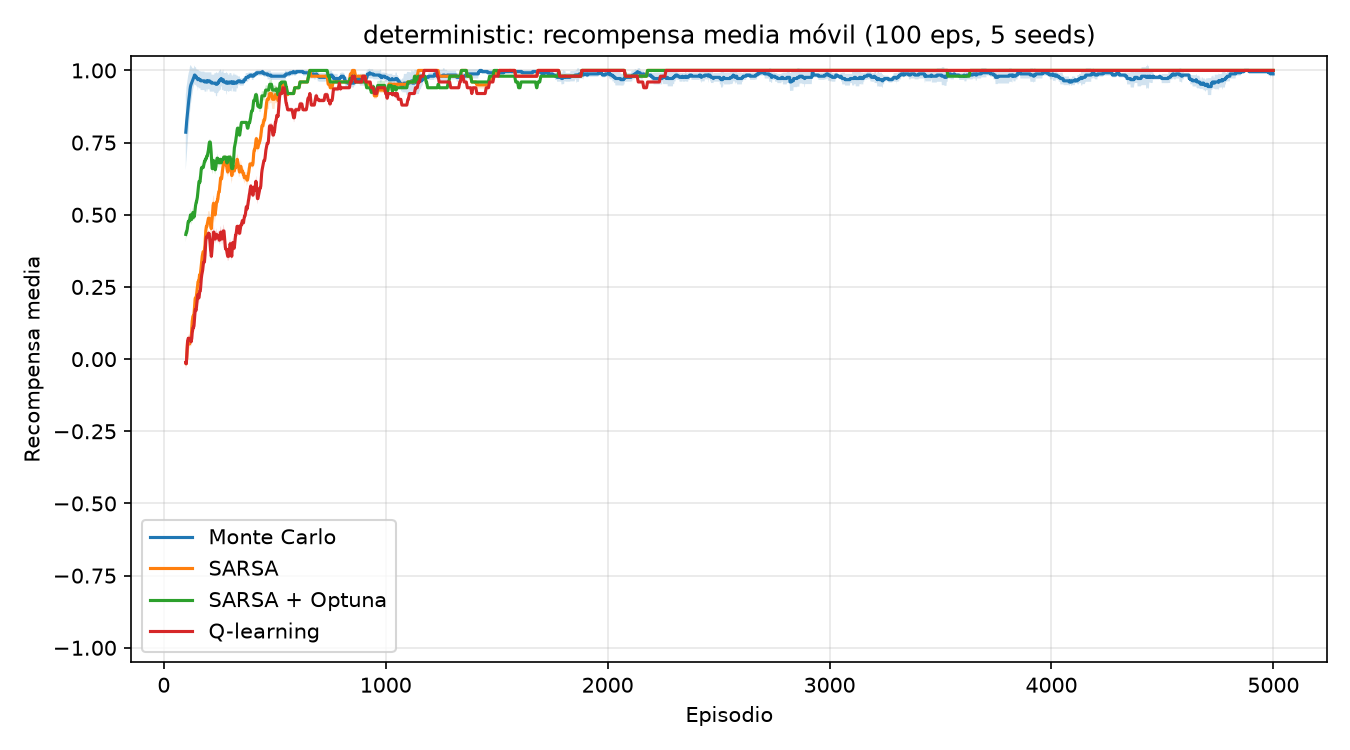
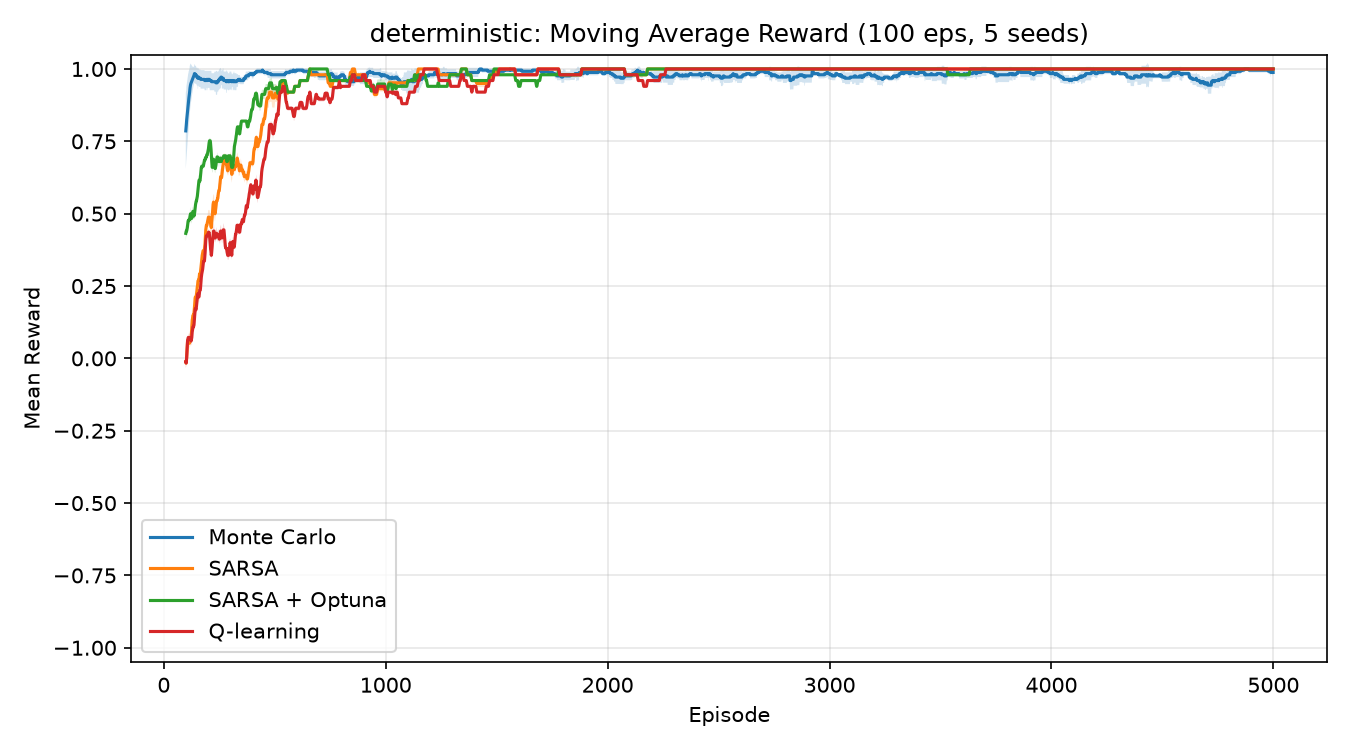
hope_last_changes

diff --git a/run_experiments.py b/run_experiments.py
@@ -37,8 +37,8 @@ def main():
 
     if not params_path.exists():
         raise FileNotFoundError(
-            "No se encuentra best_sarsa_params.json. "
-            "Ejecuta primero optimizacion.py."
+            "Can't find best_sarsa_params.json. "
+            "First execute optimizacion.py."
         )
 
     with params_path.open("r", encoding="utf-8") as f:
@@ -55,7 +55,7 @@ def main():
         print(f"PI policy == VI policy: {np.array_equal(pi_pi, pi_star)}")
 
         sr, ret, steps = evaluate_policy(Q_star, env)
-        print(f"Óptimo (VI):  success={sr:.3f}  return={ret:.4f}  steps={steps:.2f}")
+        print(f"Optimal (VI):  success={sr:.3f}  return={ret:.4f}  steps={steps:.2f}")
         show_policy(Q_star, f"π* ({tag}, Value Iteration)")
         tools.plot_value_function(V_star, env, title=f"V* — {tag} (VI)")
         tools.plot_policy(pi_star, env, title=f"π* — {tag} (VI)")
@@ -104,7 +104,7 @@ def main():
                 rows.append(dict(env=tag, algo=name, seed=sd,
                                  success=sr, ret=ret, steps=steps, q_err=q_err))
             curves[name] = np.asarray(runs)
-            show_policy(Q, f"π ({name}, {tag}, última seed)")   
+            show_policy(Q, f"π ({name}, {tag}, last seed)")   
             print(f"{name:13s} success={np.mean([m[0] for m in metrics]):.3f} "
                   f"return={np.mean([m[1] for m in metrics]):.4f} "
                   f"steps={np.mean([m[2] for m in metrics]):.2f} "
@@ -116,8 +116,8 @@ def main():
             x = np.arange(len(m)) + WINDOW - 1
             plt.plot(x, m, label=name)
             plt.fill_between(x, m - s, m + s, alpha=0.2)
-        plt.title(f"{tag}: recompensa media móvil ({WINDOW} eps, {len(SEEDS)} seeds)")
-        plt.xlabel("Episodio"); plt.ylabel("Recompensa media")
+        plt.title(f"{tag}: Moving Average Reward ({WINDOW} eps, {len(SEEDS)} seeds)")
+        plt.xlabel("Episode"); plt.ylabel("Mean Reward")
         plt.ylim(-1.05, 1.05); plt.legend(); plt.grid(alpha=0.3)
         plt.tight_layout()
         plt.savefig(f"{OUT}/curves_{tag}.png", dpi=150)
@@ -126,13 +126,13 @@ def main():
     
     df = pd.DataFrame(rows)
     df.to_csv(f"{OUT}/summary.csv", index=False)
-    print("\n===== SUMMARY (mean over seeds) =====")
+    print("\n *****SUMMARY (mean over seeds)*****")
     print(df.groupby(["env", "algo"])[["success", "ret", "steps", "q_err"]]
             .mean().round(4).to_string())
 
     fig, axes = plt.subplots(1, 2, figsize=(12, 4.5))
     for ax, col, title in zip(axes, ["success", "ret"],
-                              ["Tasa de éxito (eval greedy)", "Retorno medio (eval greedy)"]):
+                              ["Ruccess Rate (eval greedy)", "Average return (eval greedy)"]):
         m = df.pivot_table(index="algo", columns="env", values=col)
         s = df.pivot_table(index="algo", columns="env", values=col, aggfunc="std")
         m.plot(kind="bar", yerr=s, ax=ax, capsize=4, rot=15)
@@ -140,7 +140,7 @@ def main():
     fig.tight_layout()
     fig.savefig(f"{OUT}/final_performance.png", dpi=150)
     plt.close()
-    print(f"\nFigures + CSVs saved in ./{OUT}/ — use them directly in the slides.")
+    print(f"\nFigures + CSVs saved in ./{OUT}/.")
 
 
 

diff --git a/optimization.py b/optimization.py
@@ -60,7 +60,7 @@ def main():
     with open("best_sarsa_params.json", "w", encoding="utf-8") as f:
         json.dump(best_params, f, indent=4)
 
-    print("Hiperparámetros guardados en best_sarsa_params.json")
+    print("Saved hyperparameters in best_sarsa_params.json")
 
     Q, rewards, successes = train_sarsa(
         TUNE_ENV, episodes=FIXED_EPISODES, alpha=p["alpha"], gamma=p["gamma"],
@@ -72,14 +72,14 @@ def main():
     print(f"\nRe-evaluación: success={sr:.1%}  return={ret:.4f}")
     show_policy(Q, "SARSA (Optuna, stochastic)")
 
-    study.trials_dataframe().to_csv("resultados_optuna_sarsa_stochastic.csv", index=False)
+    study.trials_dataframe().to_csv("results_optuna_sarsa_stochastic.csv", index=False)
 
     window = 100
     ma = np.convolve(rewards, np.ones(window) / window, mode="valid")
     plt.figure(figsize=(9, 4))
     plt.plot(ma)
-    plt.title(f"SARSA optimizado: recompensa media móvil ({window})")
-    plt.xlabel("Episodio"); plt.ylabel("Recompensa media")
+    plt.title(f"SARSA optimized: Moving average Reward ({window})")
+    plt.xlabel("Episode"); plt.ylabel("Mean reward")
     plt.tight_layout(); plt.show()
 
     try:
@@ -87,7 +87,7 @@ def main():
         plot_optimization_history(study)
         plt.tight_layout(); plt.show()
     except Exception as exc:
-        print(f"No se pudo mostrar la gráfica de Optuna: {exc}")
+        print(f"Can not show the Optuna graphic: {exc}")
 
 
 if __name__ == "__main__":

diff --git a/SARSA.py b/SARSA.py
@@ -62,8 +62,8 @@ if __name__ == "__main__":
     ma = np.convolve(rewards, np.ones(window) / window, mode="valid")
     plt.figure(figsize=(9, 4))
     plt.plot(ma)
-    plt.title(f"SARSA: recompensa media móvil ({window} episodios)")
-    plt.xlabel("Episodio"); plt.ylabel("Recompensa media")
+    plt.title(f"SARSA: moving average reward ({window} episodes)")
+    plt.xlabel("Episode"); plt.ylabel("Mean reward")
     plt.tight_layout(); plt.show()
 
     show_environment(GridworldEnv(render_mode="rgb_array", is_slippery=False))

diff --git a/Q_learning.py b/Q_learning.py
@@ -59,6 +59,6 @@ if __name__ == "__main__":
     ma = np.convolve(rewards, np.ones(window) / window, mode="valid")
     plt.figure(figsize=(9, 4))
     plt.plot(ma)
-    plt.title(f"Q-learning: recompensa media móvil ({window} episodios)")
-    plt.xlabel("Episodio"); plt.ylabel("Recompensa media")
+    plt.title(f"Q-learning: moving average reward ({window} episode)")
+    plt.xlabel("Episodio"); plt.ylabel("Mean reward")
     plt.tight_layout(); plt.show()
